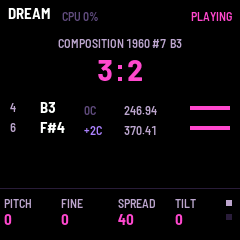
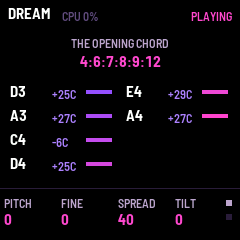
dream: PRESET's order, the Opening Chord first
The Opening Chord, the Well-Tuned Piano tuning, then the rest from the newest back: Map of 49's Dream, Drift
Study, the Magic Chord, the Dream House, Composition 1960 #7. Settings saved in the old order keep their
piece (an order byte where the spare one was). The tests, the README and the manual follow.

Claude-Session: https://claude.ai/code/session_01EispzgvHwJ5UtzEQyKJnBC

diff --git a/app/app.c b/app/app.c
@@ -106,15 +106,21 @@ static const piece_t VWTP[] = {
 };
 
 #define NV(v) ((uint8_t)(sizeof v / sizeof v[0]))
+/* the order on PRESET: the Opening Chord first, the Well-Tuned Piano's tuning second, then the rest from the
+ * newest back to Composition 1960 #7 */
 static const work_t PIECES[] = {
-    {B3_HZ * 0.25f, 0, NV(V1960), 1, V1960},
-    {4.5f, 0, NV(VDREAM), 6, VDREAM},
     {WTP_EB3 * 0.25f, 0, NV(VOPEN), 0, VOPEN},
-    {WTP_EB3 / 512.0f, 0, NV(VMAGIC), 0, VMAGIC},
-    {B3_HZ * 0.5f, 40, NV(VDRIFT), 0, VDRIFT},
-    {7.5f, 0, NV(VMAP), 0, VMAP},
     {WTP_EB3 / 1024.0f, 0, NV(VWTP), 0, VWTP},
+    {7.5f, 0, NV(VMAP), 0, VMAP},
+    {B3_HZ * 0.5f, 40, NV(VDRIFT), 0, VDRIFT},
+    {WTP_EB3 / 512.0f, 0, NV(VMAGIC), 0, VMAGIC},
+    {4.5f, 0, NV(VDREAM), 6, VDREAM},
+    {B3_HZ * 0.25f, 0, NV(V1960), 1, V1960},
 };
+/* settings saved before that order (order 0) had 1960 #7, Dream House, Opening Chord, Magic Chord, Drift Study,
+ * Map of 49's Dream, the tuning: each one's place now */
+static const uint8_t ORDER_FROM_V1[] = {6, 5, 0, 4, 3, 2, 1};
+#define ORDER_V 1u
 #define NPIECES ((int)(sizeof PIECES / sizeof PIECES[0]))
 
 /* --------------------------------------------------------------- settings --- */
@@ -132,7 +138,7 @@ typedef struct {
     int8_t balance;                      /* BALANCE: the base, dB, -12 .. +12 */
     uint8_t evolve;                      /* EVOLVE: minutes a breath, 0 (off) .. 60 */
     uint8_t variant;                     /* ALGORITHM: the piece's version */
-    uint8_t rsv;
+    uint8_t order;                       /* ORDER_V: PRESET's order the piece number is in (0: the first) */
 } settings_t;
 static settings_t set;
 static uint8_t set_dirty;
@@ -151,6 +157,7 @@ static void settings_defaults(void)
     set.balance = 0;
     set.evolve = 0;
     set.variant = PIECES[0].var0;
+    set.order = ORDER_V;
 }
 
 static int settings_ok(void)
@@ -273,7 +280,12 @@ static void drone_push(void)
 void app_init(void)
 {
     dr_init();
-    if (plat_store_load(OBJ_SETTINGS, &set, sizeof set) != (int)sizeof set || !settings_ok())
+    if (plat_store_load(OBJ_SETTINGS, &set, sizeof set) == (int)sizeof set && set.magic == SET_MAGIC
+        && set.order == 0u && set.piece < sizeof ORDER_FROM_V1) {   /* saved in the first order: the same piece */
+        set.piece = ORDER_FROM_V1[set.piece];
+        set.order = ORDER_V;
+    }
+    if (set.magic != SET_MAGIC || set.order != ORDER_V || !settings_ok())
         settings_defaults();
     drone_update();
     drone_push();

diff --git a/README.md b/README.md
@@ -19,13 +19,13 @@ PRESET chooses the piece, ALGORITHM its version.
 
 | Piece | Versions | Source |
 | --- | --- | --- |
-| Composition 1960 #7 | B and F# at 3:2, in B2, B3, B4 | the score's two pitches, as a pure fifth |
-| Dream House | the eight inclusory optional bases: 7; 8; 14:8; 18:14:8; 18:16:14; 18:16:14:8; 9:7:4; empty | the 15 tones from 224 to 288, worked from the title of *The Base 9:7:4 Symmetry in Prime Time…* |
 | The Opening Chord | | The Well-Tuned Piano: Eb Bb C Eb F Bb, 4:6:7:8:9:12, Young's A (189/128) at 440 Hz |
-| The Magic Chord | the Magic Chord; the Magic Opening Chord | The Well-Tuned Piano, its keys as sounded (Gann 1993) |
-| Drift Study | | **tones chosen here**: 6:7:8 on B. The recordings' own tones are unpublished |
-| Map of 49's Dream | | **tones chosen here**: a 60 Hz drone under 49:56:63:72, without 5, by Young's stated rules |
 | Well-Tuned Piano Tuning | | the tuning's twelve pitches in three octaves, 36 tones at once |
+| Map of 49's Dream | | **tones chosen here**: a 60 Hz drone under 49:56:63:72, without 5, by Young's stated rules |
+| Drift Study | | **tones chosen here**: 6:7:8 on B. The recordings' own tones are unpublished |
+| The Magic Chord | the Magic Chord; the Magic Opening Chord | The Well-Tuned Piano, its keys as sounded (Gann 1993) |
+| Dream House | the eight inclusory optional bases: 7; 8; 14:8; 18:14:8; 18:16:14; 18:16:14:8; 9:7:4; empty | the 15 tones from 224 to 288, worked from the title of *The Base 9:7:4 Symmetry in Prime Time…* |
+| Composition 1960 #7 | B and F# at 3:2, in B2, B3, B4 | the score's two pitches, as a pure fifth |
 
 ## The controls
 

diff --git a/app/docs/MANUAL.md b/app/docs/MANUAL.md
@@ -49,10 +49,10 @@ FM-1's time the sound takes.
 
 | Piece | |
 | --- | --- |
-| Composition 1960 #7 | B and F#, "to be held for a long time", as a pure fifth (3:2). In B2, B3 or B4 |
-| Dream House | the 15 tones from harmonic 224 to 288 of *The Base 9:7:4 Symmetry in Prime Time…*, worked from its title, over any of its eight optional bases |
 | The Opening Chord | The Well-Tuned Piano's, 4:6:7:8:9:12 on Young's Eb (297.99 Hz) |
-| The Magic Chord | The Well-Tuned Piano's: eight tones over an Eb that never sounds; or the Magic Opening Chord, both chords together |
-| Drift Study | three tones, 6:7:8 on B, drifting. The recordings' own tones are unpublished: these are chosen |
-| Map of 49's Dream | a 60 Hz drone under 49:56:63:72, without the number 5. Chosen by Young's rules; his own sets are unpublished |
 | Well-Tuned Piano Tuning | all twelve of its pitches in three octaves, 36 tones. Good with DENSITY and EVOLVE |
+| Map of 49's Dream | a 60 Hz drone under 49:56:63:72, without the number 5. Chosen by Young's rules; his own sets are unpublished |
+| Drift Study | three tones, 6:7:8 on B, drifting. The recordings' own tones are unpublished: these are chosen |
+| The Magic Chord | The Well-Tuned Piano's: eight tones over an Eb that never sounds; or the Magic Opening Chord, both chords together |
+| Dream House | the 15 tones from harmonic 224 to 288 of *The Base 9:7:4 Symmetry in Prime Time…*, worked from its title, over any of its eight optional bases |
+| Composition 1960 #7 | B and F#, "to be held for a long time", as a pure fifth (3:2). In B2, B3 or B4 |
